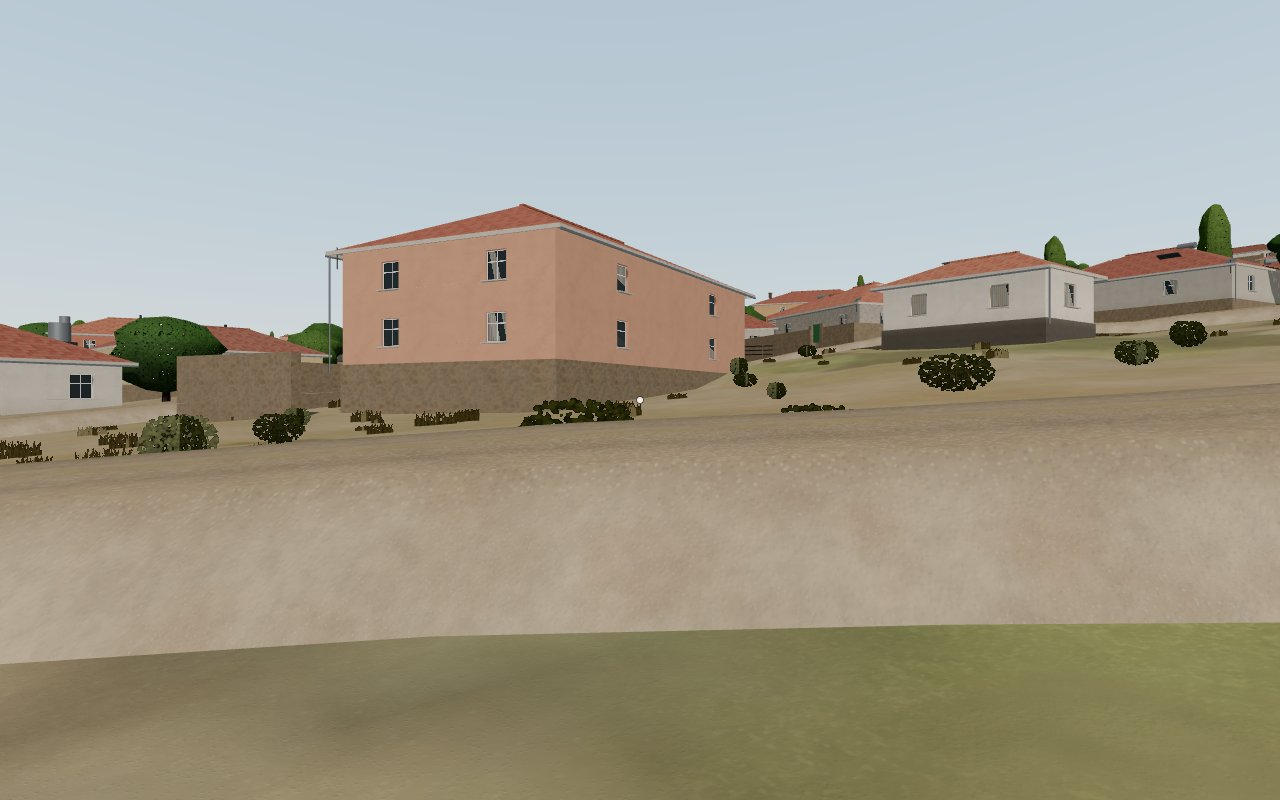
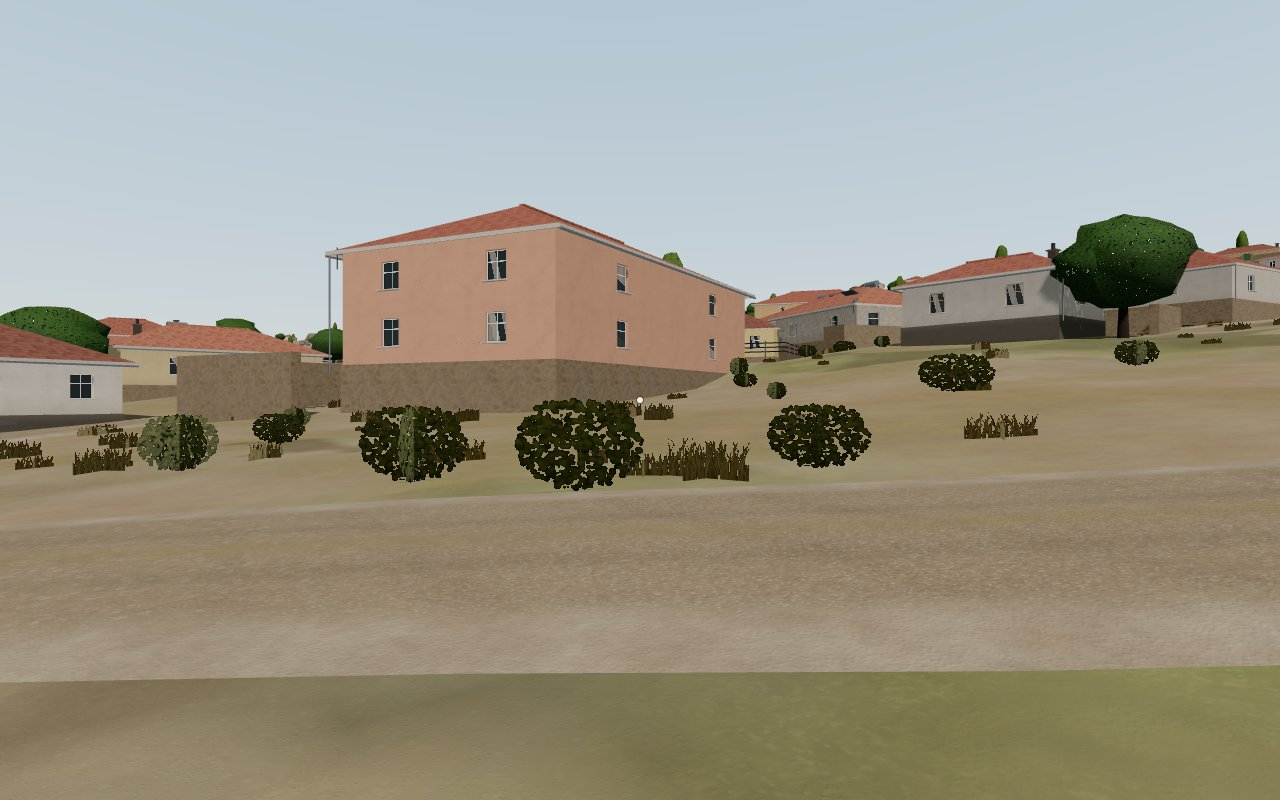
v0.9.5: roads flush with the ground
The per-road lift stagger (index * 3 mm) had grown to 1.4 m over 467 roads and put the lanes on raised
causeways; now at most 3 cm on the 6–12 cm lift. Earth lanes a little paler so they still read against the
ground by surface alone. Screenshots re-rendered.

Claude-Session: https://claude.ai/code/session_01Rnj2kVDNeA4hBfUvCyeFx3

diff --git a/src/village_materials.js b/src/village_materials.js
@@ -151,8 +151,8 @@ export function villageMaterials(lib, { quality = 2 } = {}) {
       albedo *= 1.0 - 0.14 * track;
       float crown = (1.0 - smoothstep(0.0, 0.22, au)) * smoothstep(0.35, 0.7, kk_tri(tSoilR, vWPos * 0.3 + 1.0, kkW).r);
       vec3 grassC = kk_tri(tGrassC, vWPos * 0.5, kkW).rgb * vec3(0.95, 1.0, 0.75);
-      albedo = mix(albedo, grassC, crown * 0.55);
-      albedo *= (0.88 + 0.24 * wear) * 1.18;
+      albedo = mix(albedo, grassC, crown * 0.4);
+      albedo *= (0.88 + 0.24 * wear) * 1.3;   // flush with the ground, so the lane is told by its paler surface alone
       rough = mix(rough, 0.7, track * 0.4);`);
   // stabilised earth square: no ruts, lots of tyre scuffing
   M.square = roadMat('rd_square', { set: gravel, ns: 0.7, tint: 0xe0d8c8, rough: 1.0 }, /* glsl */`

diff --git a/src/village.js b/src/village.js
@@ -106,7 +106,10 @@ export function buildVillage(ctx, layout, M) {
   let bid = 5000;
 
   // ================================================================= roads
-  const lift = (r) => LIFT[r.kind] + roads.indexOf(r) * 0.003;
+  // v0.9.5: the per-road stagger only has to separate overlapping ribbons at junctions — the old index * 3 mm grew
+  // to 1.4 m over 467 roads and put the lanes on raised causeways (owner's report). Now at most 3 cm on top of the
+  // 6–12 cm lift, so the roads lie on the ground and differ from it by surface only.
+  const lift = (r) => LIFT[r.kind] + (roads.indexOf(r) % 8) * 0.004;
   for (const r of roads) {
     if (centreOnly) break;
     const hw = r.w / 2, L = lift(r);

diff --git a/docs/REALISM.md b/docs/REALISM.md
@@ -53,6 +53,9 @@ Rendering (`src/village.js`, `village_layout.js`, `village_materials.js`, `terra
 - windows: 2–3 on a 10–12 m street front, at most 4 on a long one, 1–2 on side walls, blank stretches on long
   walls (03, 36, 57, 60); floor-to-floor 2.8 m; barns / annexes 2.6 m high with small openings, no balcony, no
   garden wall;
+- roads lie on the ground: the per-road stagger that separates overlapping ribbons at junctions was index × 3 mm and
+  had grown to 1.4 m over 467 roads, so the lanes ran on raised causeways; it is now at most 3 cm on a 6–12 cm lift,
+  and a lane is told from the ground by its paler surface alone (owner's request);
 - houses on slopes are cut deeper into the ground, so plinths stay 1–2 m instead of 3 m;
 - `pruneRocks`: the merged GLB rock mesh is split into boulders (connected components); the 144 boulders on a road
   ribbon, in a yard or within 18 m of a house are dropped (56/57: a plastered house and an ashlar garden wall where
